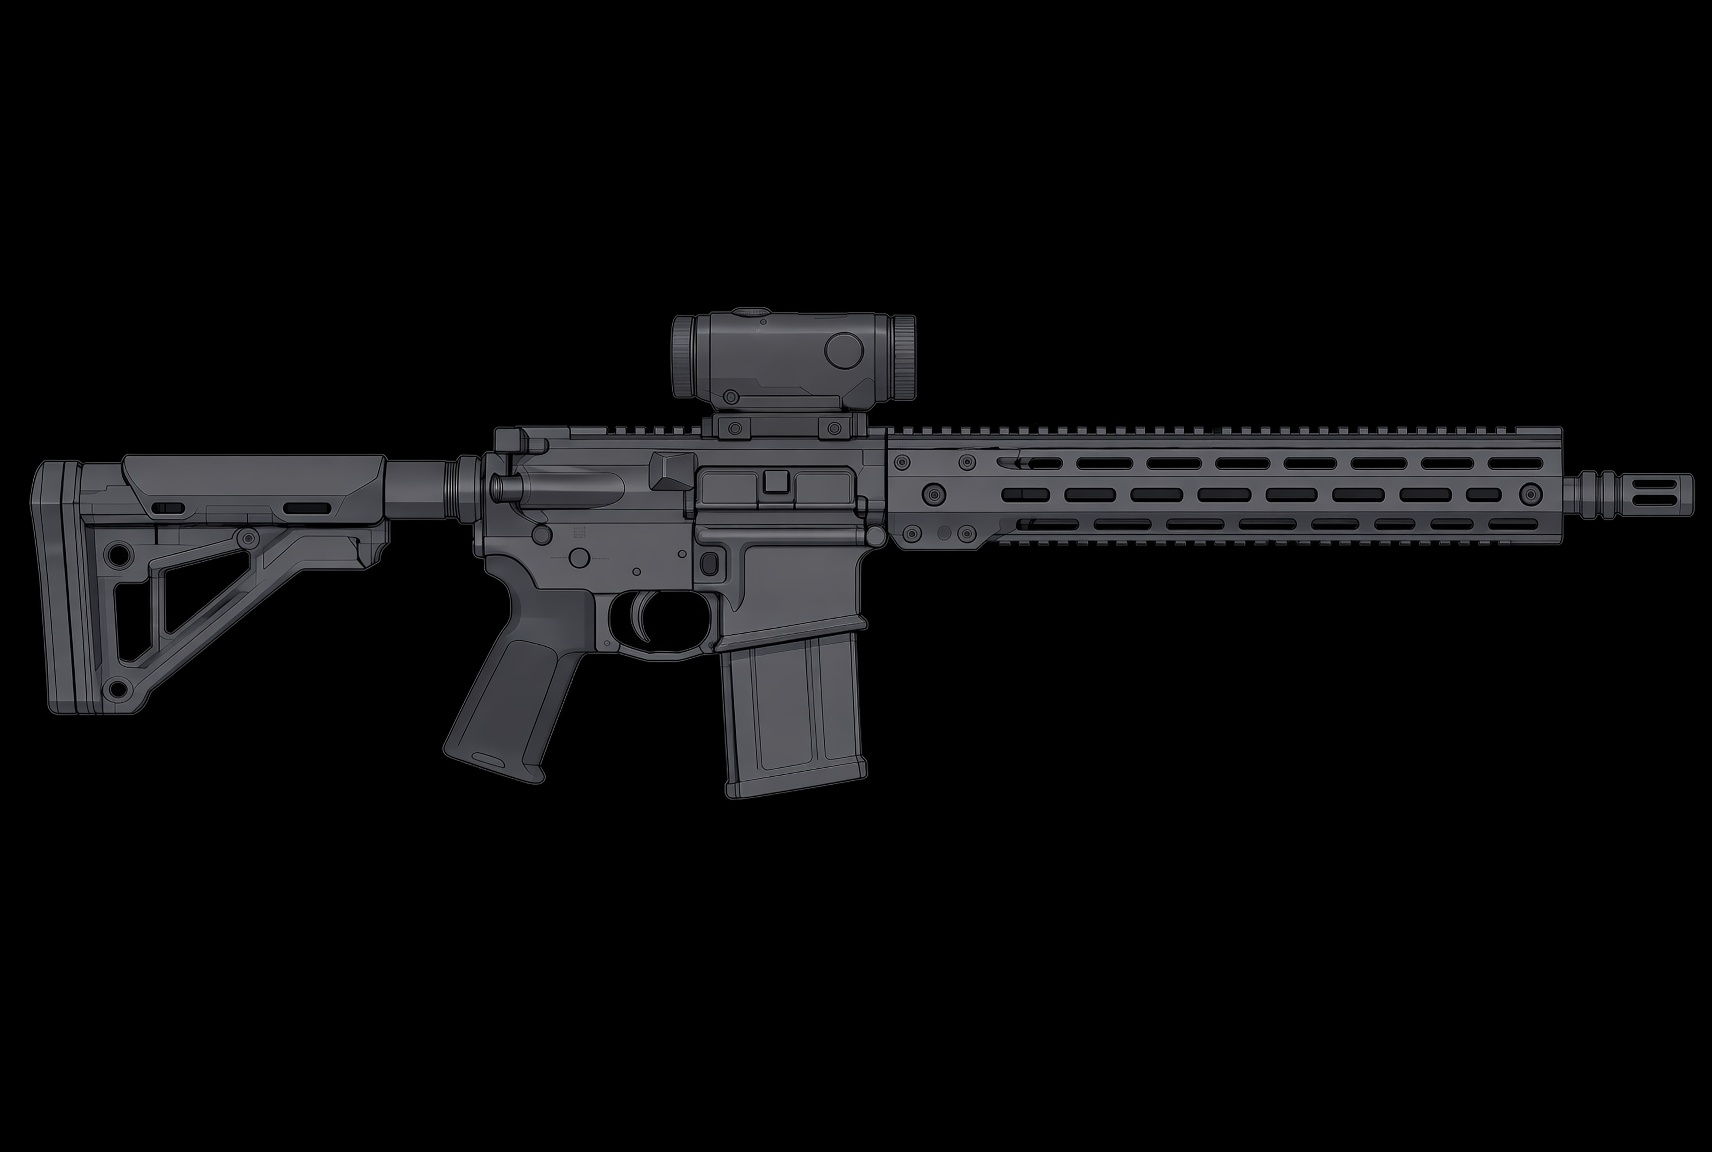
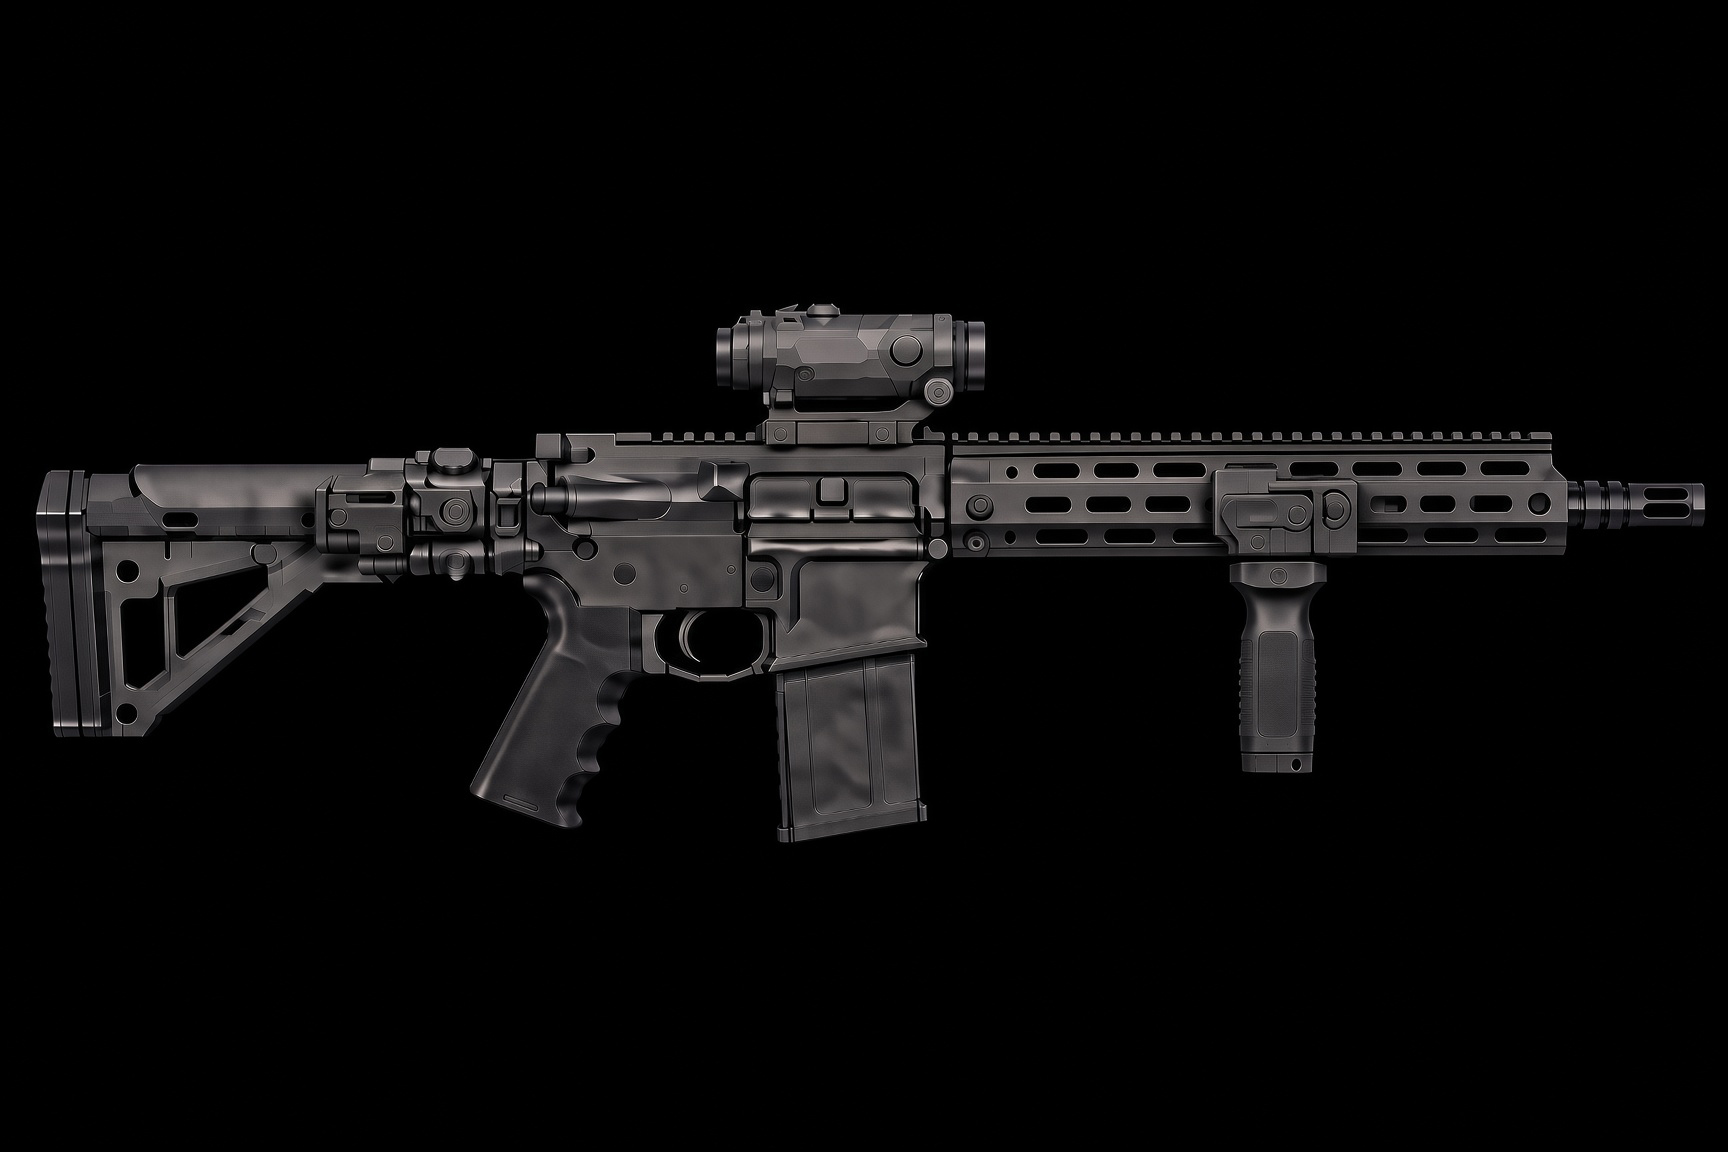
Registry: add Requirements under Notes and Vendors after Vertical Integrators

Changed region(s): [[0.0, 0.25, 0.9907, 0.75]]

diff --git a/src/pages/SystemRegistry.tsx b/src/pages/SystemRegistry.tsx
@@ -8,8 +8,13 @@ import { Package } from 'lucide-react';
 import { getRegistryTree, getEntityById, subscribeConfigStore } from '../lib/configStore';
 import { PlatformSelector } from '../components/PlatformSelector';
 import { getActiveSystem, subscribePlatform } from '../lib/platformStore';
+<<<<<<< Updated upstream
 import { ComponentCard } from './SystemRegistryCard';
 import { TreeNode } from './SystemRegistryTree';
+=======
+import { RequirementsSection } from './RequirementsSection';
+import { VendorsSection } from './VendorsSection';
+>>>>>>> Stashed changes
 
 type ViewMode = 'overview' | 'tree';
 

diff --git a/amplify/auth/resource.ts b/amplify/auth/resource.ts
@@ -1,8 +1,9 @@
 import { defineAuth } from '@aws-amplify/backend';
 
 /**
- * Minimal auth so Data can use userPool / identity.
- * Vector UI can stay on auth bypass until you wire Authenticator.
+ * Vector / shared team auth — email login.
+ * Authenticator forces sign-in (ITAR-adjacent documents).
+ * After pool deletion: sandbox recreates a new User Pool.
  */
 export const auth = defineAuth({
   loginWith: {
